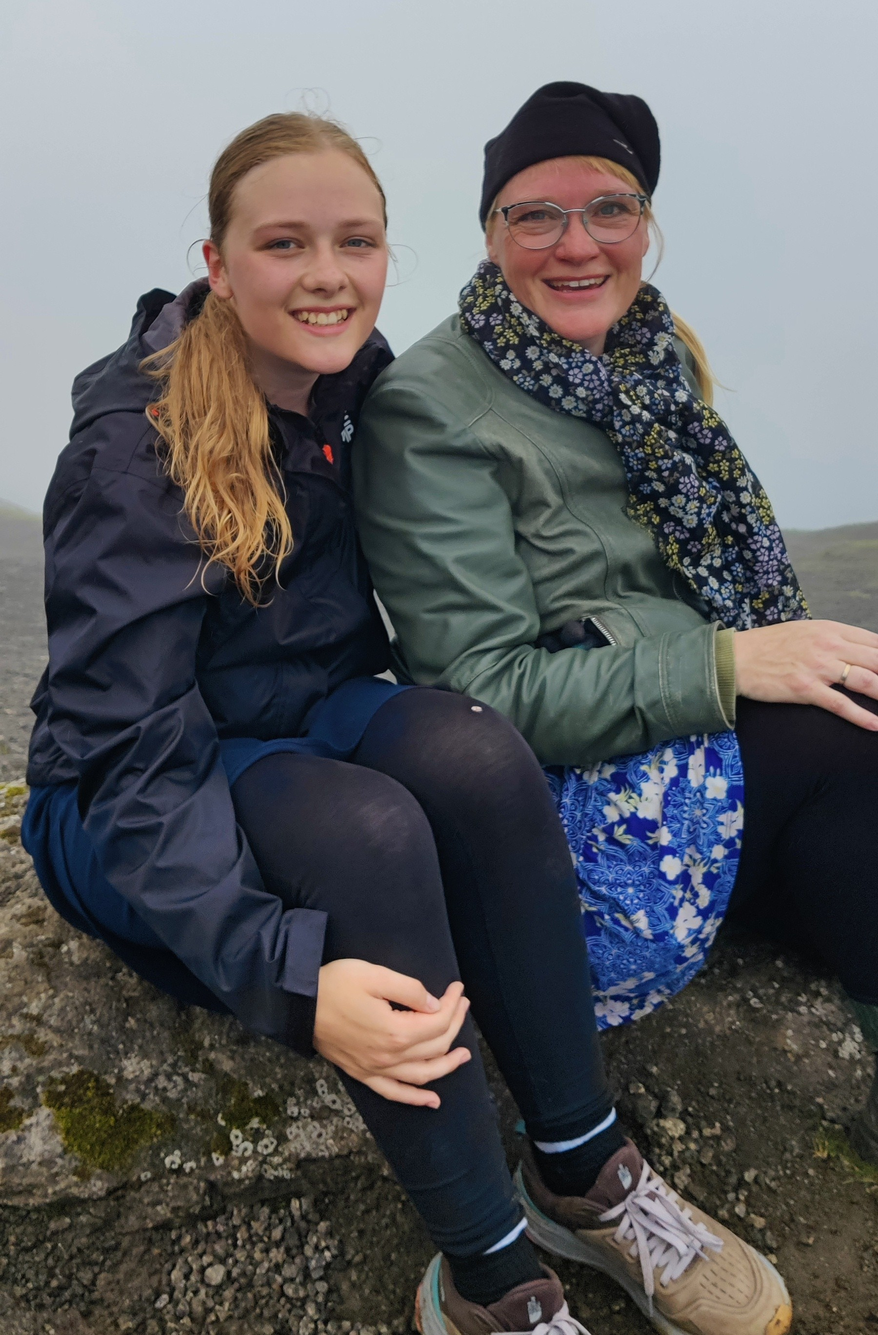
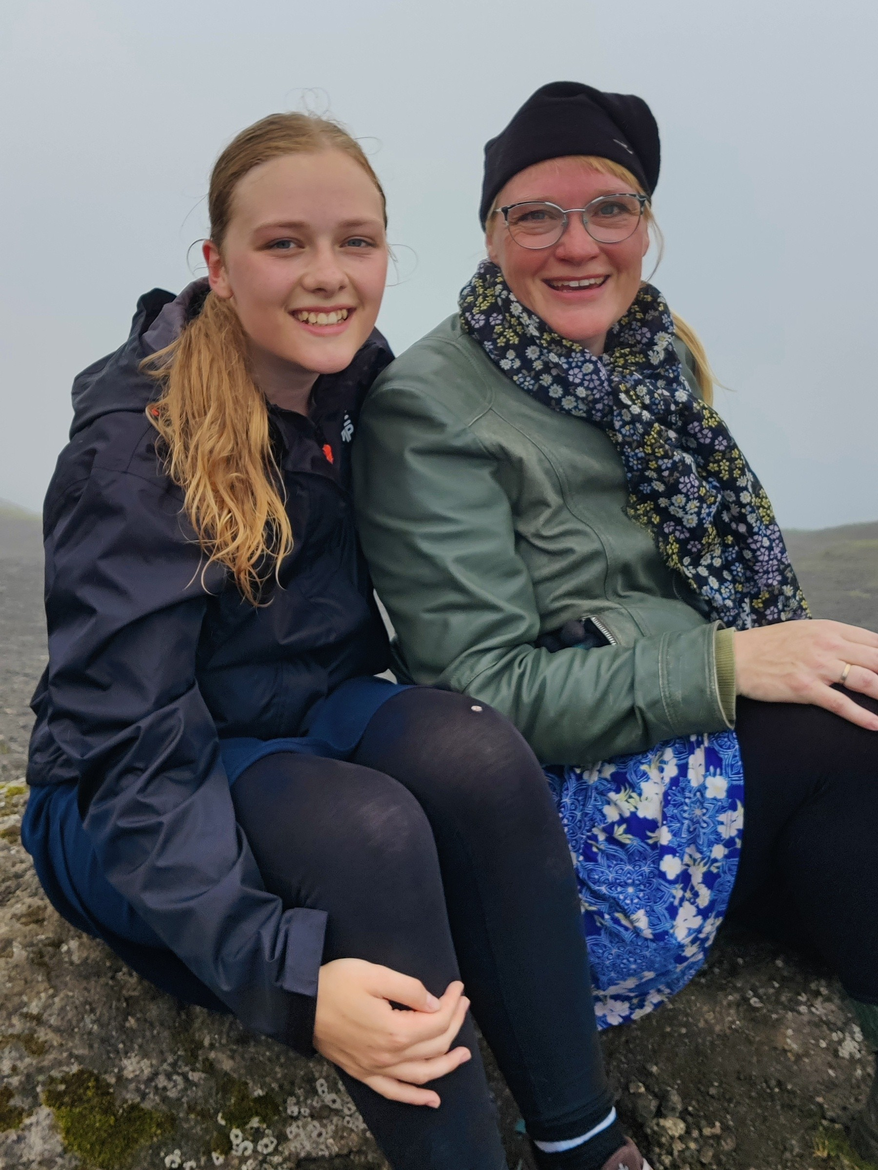
final adjustments

diff --git a/index.html b/index.html
@@ -401,7 +401,7 @@
       </div>
       <div class="card">
         <img class="card-img" src="img_4.jpg" alt="Mig, min mor og min tvillingebror i Tyskland">
-        <div class="card-caption">💕 Tyskland 💕</div>
+        <div class="card-caption">💕 Harzen: Tyskland 💕</div>
       </div>
       <div class="card">
         <img class="card-img" src="img_5.jpg" alt="Min mor og jeg på Færøerne">
@@ -447,7 +447,7 @@
 
     <footer>
       <p>✨ Fra Clara ✨</p>
-      <p style="margin-top:8px;">🌷 Mors dag 2026, vores minder lever for altid 🌷</p>
+      <p style="margin-top:8px;">🌷 Mors dag 2026 🌷</p>
     </footer>
 
   </div>
